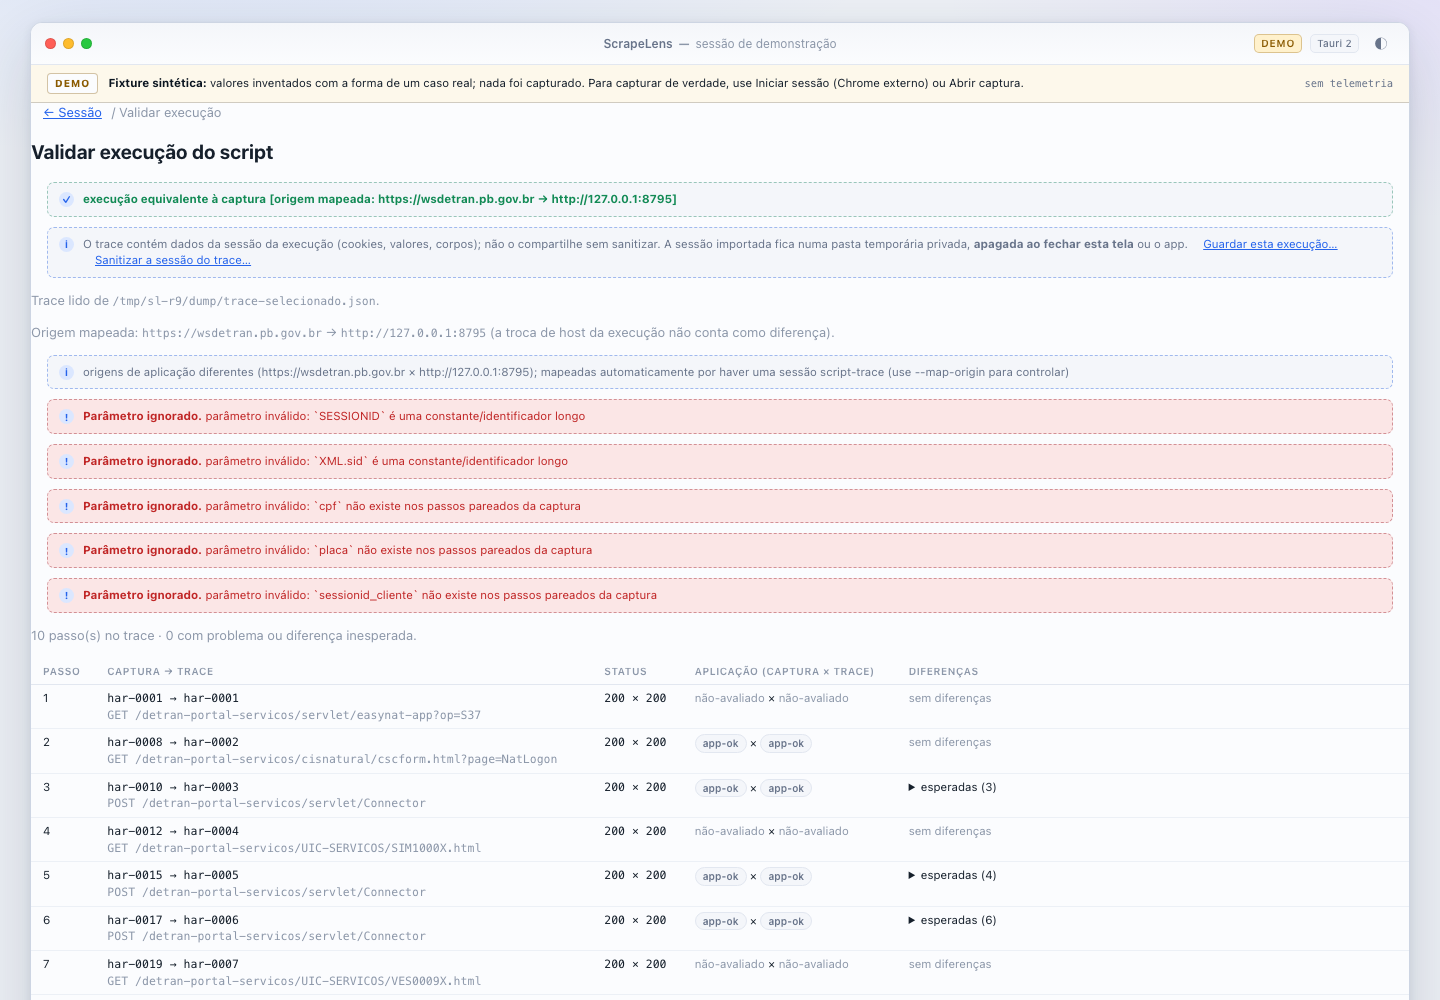
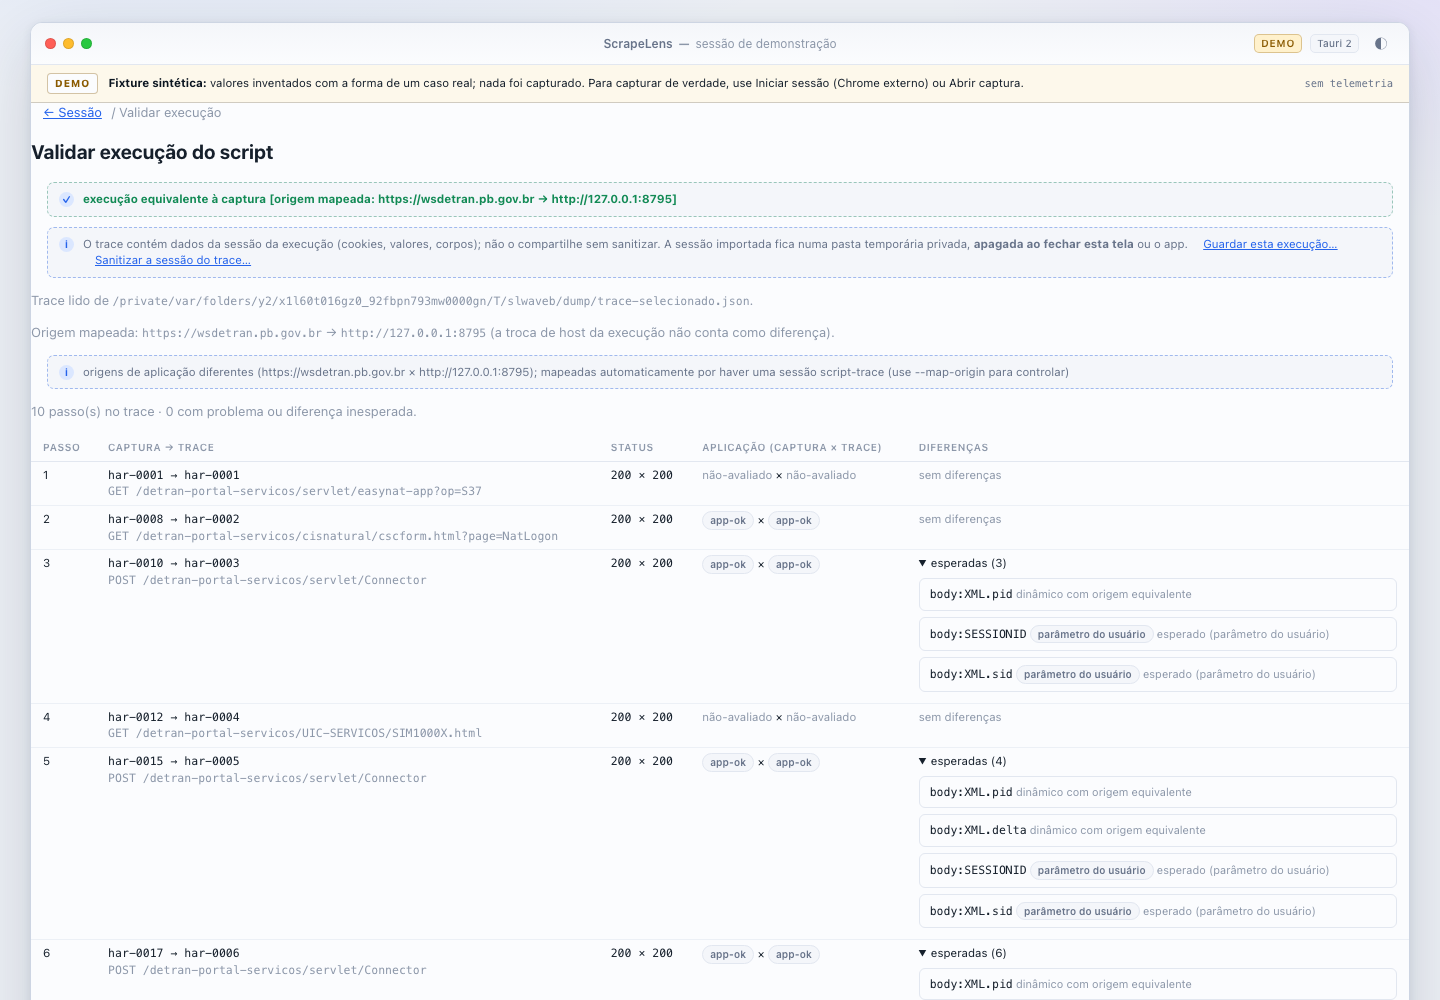
test(app): ok/403/incomplete traces on plan.version 2 and validation without spurious warnings
Regenerates the 3 traces against the local detran-sim with the core at HEAD
(plan.version 2), requires in the faithful trace the absence of parameter/plan
warnings (only the mapped origin warning), redoes screenshots 38–41, and records
bundle 860c2008 in EMPACOTAMENTO.md.

diff --git a/src-tauri/src/commands.rs b/src-tauri/src/commands.rs
@@ -1778,6 +1778,17 @@ mod tests {
         let ok = validate_execution_blocking(&root, &capture, &sim_trace("trace-sim-ok.json"), None).unwrap();
         assert!(ok.validation.summary.starts_with("execução equivalente à captura"), "{}", ok.validation.summary);
         assert!(ok.validation.summary.contains("[origem mapeada:"));
+        // trace fiel (plan.version 2): nenhum aviso de parâmetro ou de plano; só o de origem mapeada
+        assert!(
+            ok.validation.warnings.iter().all(|w| w.starts_with("origens de aplicação diferentes")),
+            "a trace fiel não pode gerar avisos além do de origem mapeada: {:?}",
+            ok.validation.warnings
+        );
+        assert!(
+            !ok.validation.warnings.iter().any(|w| w.contains("parâmetro") || w.contains("plano")),
+            "avisos espúrios de parâmetro/plano: {:?}",
+            ok.validation.warnings
+        );
         assert!(
             ok.validation.steps.iter().flat_map(|st| &st.expected).any(|n| n.reason.contains("parâmetro do usuário")),
             "placa/CPF informados viram esperado (parâmetro do usuário)"

diff --git a/src-tauri/EMPACOTAMENTO.md b/src-tauri/EMPACOTAMENTO.md
@@ -9,7 +9,7 @@ mesmas condições.
 | Item | Valor |
 |---|---|
 | Repositório | `/Users/cesar/Projects/scrapelens` |
-| Commit do app no momento do build | `3a3c676` (`fix(exportacao): evita repetir o estado do corpo na prévia`) |
+| Commit do app no momento do build | `31bcaa9` (HEAD de origem; `test(priming): evidência do plan.version no trace fiel, equivalente sem avisos`) |
 | Commits de exportação incluídos | `eaf5471` (shell Tauri), `0a6e696` (UI), `0446f18`/`12457cd` (formatação), `3a3c676` (ajuste da prévia) |
 | Contrato da rodada | `4c97bc9` (`docs/07-exportacao-ui.md`) |
 | Core | inalterado nesta rodada; entra como dependência de crate (`scrapelens-core = { path = "../core" }`) |
@@ -46,15 +46,15 @@ Ferramentas usadas: rustc 1.98.1, Node 26.8.1, macOS 26.5.2 (arm64).
 | Bundle | `src-tauri/target/release/bundle/macos/ScrapeLens.app` |
 | Executável | `ScrapeLens.app/Contents/MacOS/scrapelens` |
 | Arquitetura | `Mach-O 64-bit executable arm64`, thin (sem universal binary) |
-| Tamanho do bundle | 15.768 KiB (~15,4 MiB, `du -sk`) |
-| Tamanho do executável | 15.392.688 bytes |
[1 lines of base64/hex data omitted]
+| Tamanho do bundle | 16.720 KiB (~16,3 MiB, `du -sk`) |
+| Tamanho do executável | 16.365.856 bytes |
[1 lines of base64/hex data omitted]
 | Identificador | `app.scrapelens.desktop` |
 | Assinatura | ad-hoc (`flags=0x2(adhoc)`, `TeamIdentifier=not set`) |
 | `codesign --verify --deep --strict` | exit 0 (valid on disk, satisfaz o Designated Requirement) |
 | `spctl -a` | rejeitado — esperado: sem Developer ID e sem notarização |
 
-Rodada 9, 3ª vez (HEAD de origem a37cd60, 2026-10-29; temporária do trace com guardar/descartar, limite de 64 MiB, vereditos novos do validate com plan.hash do core; hash anterior `0b49ba0c…`). Antes: rodada 9, 2ª vez (HEAD de origem 2a5c533, 2026-10-29; validate com adaptador e classe "parâmetro do usuário"; hash anterior `48e1ab6d…`). Antes: rodada 9 (HEAD de origem 744df02, 2026-10-29; linha do tempo, "Validar execução…" com import-trace em pasta nova e validate; hash anterior `bda06a2d…`). Antes: build final que encerra a rodada 8 (HEAD de origem dc14ac3, 2026-10-29; estrito como padrão nas partes do adaptador; opção avançada "partes tolerantes" (`lenient_parts`) no script de priming, desligada por padrão; hash anterior `0eb5632a…`). Antes: build final da rodada 8, 2ª vez (HEAD de origem c07b514, 2026-10-29; inclui b4511fb e c07b514 da Captura; hash anterior `bee5f6d6…`). Antes: build final da rodada 8 (HEAD de origem 5d2c6e6, 2026-10-29; inclui 391db16, 5d2c6e6 da Captura, 3ba9486 do Core e o corte de partes da visão do adaptador; hash anterior `53009655…`). Antes: rebuild final da rodada 8 (HEAD de origem b0ce0f0, 2026-10-29; inclui limites da gramática da Captura, core c61d407 e o limite por campo da visão do adaptador; hash anterior `9aec2199…`). Antes: rebuild da rodada 8 (HEAD de origem aab8559, 2026-10-29; adaptador `natural-ajax` por dependência de path em origins/chain/compare/priming, visão estruturada e aba "Script de priming"; hash anterior `6e301e70…`). Antes: rebuild final (HEAD de origem 4b16b0e, 2026-10-29; inclui cf015b2 initiator do CDP e 6a85676 detectores do priming; hash anterior `1a097cd0…`). Antes: rebuild 7e (leitura de `assess-rules.json` só como arquivo regular sem symlink, até 256 KiB, erro de parse sem eco; hash anterior `56514c8b…`). Antes: rebuild 7d (avisos de `AssessRules::warnings()` devolvidos por `assess_session` e mostrados na lista e na aba Aplicação; hash anterior `0dba0476…`). Antes: rebuild 7c (filtros separados "Falhas da aplicação" = app-error e "Possíveis bloqueios?" = blocked?, combináveis; hash anterior `aa066f1a…`). Antes: rebuild 7b-2 (`counts` do assess com `VerdictKind::count_key()`, chaves kebab-case iguais ao `verdictKind`; hash anterior `83d67718…`). Antes: rebuild do ajuste 7b (verdict `not-assessed` neutro; hash anterior `0f6d04bf…`). Antes: rebuild da onda 7b (comando `assess_session`, coluna/filtro/aba "Aplicação", veredito na cadeia e no compare; hash anterior `4f7ca2aa…`). Antes: rebuild com frames auxiliares e iniciador (hash anterior `1697321d…`). Antes: rebuild da onda 6b (controle HTML, contexto estático, páginas de contexto, avisos de HAR sem cookies, compare por rodadas com opções, sanitização de negócio; hash anterior `f777988f…`). Antes: rebuild da dica de reordenação ligada a `SessionComparison.reordered` (hash anterior `21824159…`). Antes: rebuild do ajuste de layout do compare (chips quebram linha; dica de reordenação opcional); hash anterior `ac7213b2…`. Antes: rebuild com os rótulos do core (possível origem) e fixtures regeneradas; hash anterior `31ec27c3…`. Antes: rebuild das correções da revisão da rodada 5 (possível origem, confiança por passo, comparação paginada, caminhos canônicos, partsCounts; hash anterior `c1783a57…`). Antes: rebuild da onda 5b (aba Origem, cadeia de priming, comparação A × B, exportação com origens anotadas; hash anterior `2f08150d…`). Antes: rebuild do acabamento da rodada 4 (legenda de realce só quando há tracejado, nota discreta para `chrome-decoded`, aviso para `charset:*`/`lossy-postData`); hash anterior `0e2754f4…`. Antes: rebuild com busca preguiçosa do core (LazySession + search_lazy), realce sólido/tracejado e texto da fixture sintética; hash anterior `f9c0acec…`. Antes: rebuild das correções da revisão 4b (rótulos de origem, realce pelo intervalo do core, cache do bundle de busca, recusa de symlink em anexos, `transformed`; hash anterior `56ee754b…`). Antes: rebuild da onda 4b (busca no payload e painel de corpos: commands `search_session` e `read_body`, UI; 28+2 ignorados em src-tauri, 16/16 em tests/exportacao, `npm run test:adapter` ok; evidência em `evidence/busca-corpos/`). Hash anterior `9c04b98b…` substituído. Histórico: rebuild de 0d4dbab (`fix(app)`: adapter tolera campos omitidos que o core aceita via serde default; teste `npm run test:adapter` com a fixture mínima; 15+1 ignorado Tauri, 16/16 regressões tests/exportacao). Hash anterior `5934556c…` (16015a1) substituído. Antes: rebuild com validação de todos os ancestrais do destino (F1/F2): o hash acima é deste build. O SHA-256 é do executável **após** o re-sign ad-hoc. Um `tauri build` limpo
+Rodada 9, onda B (HEAD de origem 31bcaa9, 2026-10-29; plan.version 2 no trace, traces ok/403/incompleta regenerados contra o detran-sim e validação sem avisos espúrios na trace fiel; inclui o cleanup_on_start de 4a81cb0 e o plan.parameters de d83d620; hash anterior `bdce5796…`). Antes: rodada 9, 3ª vez (HEAD de origem a37cd60, 2026-10-29; temporária do trace com guardar/descartar, limite de 64 MiB, vereditos novos do validate com plan.hash do core; hash anterior `0b49ba0c…`). Antes: rodada 9, 2ª vez (HEAD de origem 2a5c533, 2026-10-29; validate com adaptador e classe "parâmetro do usuário"; hash anterior `48e1ab6d…`). Antes: rodada 9 (HEAD de origem 744df02, 2026-10-29; linha do tempo, "Validar execução…" com import-trace em pasta nova e validate; hash anterior `bda06a2d…`). Antes: build final que encerra a rodada 8 (HEAD de origem dc14ac3, 2026-10-29; estrito como padrão nas partes do adaptador; opção avançada "partes tolerantes" (`lenient_parts`) no script de priming, desligada por padrão; hash anterior `0eb5632a…`). Antes: build final da rodada 8, 2ª vez (HEAD de origem c07b514, 2026-10-29; inclui b4511fb e c07b514 da Captura; hash anterior `bee5f6d6…`). Antes: build final da rodada 8 (HEAD de origem 5d2c6e6, 2026-10-29; inclui 391db16, 5d2c6e6 da Captura, 3ba9486 do Core e o corte de partes da visão do adaptador; hash anterior `53009655…`). Antes: rebuild final da rodada 8 (HEAD de origem b0ce0f0, 2026-10-29; inclui limites da gramática da Captura, core c61d407 e o limite por campo da visão do adaptador; hash anterior `9aec2199…`). Antes: rebuild da rodada 8 (HEAD de origem aab8559, 2026-10-29; adaptador `natural-ajax` por dependência de path em origins/chain/compare/priming, visão estruturada e aba "Script de priming"; hash anterior `6e301e70…`). Antes: rebuild final (HEAD de origem 4b16b0e, 2026-10-29; inclui cf015b2 initiator do CDP e 6a85676 detectores do priming; hash anterior `1a097cd0…`). Antes: rebuild 7e (leitura de `assess-rules.json` só como arquivo regular sem symlink, até 256 KiB, erro de parse sem eco; hash anterior `56514c8b…`). Antes: rebuild 7d (avisos de `AssessRules::warnings()` devolvidos por `assess_session` e mostrados na lista e na aba Aplicação; hash anterior `0dba0476…`). Antes: rebuild 7c (filtros separados "Falhas da aplicação" = app-error e "Possíveis bloqueios?" = blocked?, combináveis; hash anterior `aa066f1a…`). Antes: rebuild 7b-2 (`counts` do assess com `VerdictKind::count_key()`, chaves kebab-case iguais ao `verdictKind`; hash anterior `83d67718…`). Antes: rebuild do ajuste 7b (verdict `not-assessed` neutro; hash anterior `0f6d04bf…`). Antes: rebuild da onda 7b (comando `assess_session`, coluna/filtro/aba "Aplicação", veredito na cadeia e no compare; hash anterior `4f7ca2aa…`). Antes: rebuild com frames auxiliares e iniciador (hash anterior `1697321d…`). Antes: rebuild da onda 6b (controle HTML, contexto estático, páginas de contexto, avisos de HAR sem cookies, compare por rodadas com opções, sanitização de negócio; hash anterior `f777988f…`). Antes: rebuild da dica de reordenação ligada a `SessionComparison.reordered` (hash anterior `21824159…`). Antes: rebuild do ajuste de layout do compare (chips quebram linha; dica de reordenação opcional); hash anterior `ac7213b2…`. Antes: rebuild com os rótulos do core (possível origem) e fixtures regeneradas; hash anterior `31ec27c3…`. Antes: rebuild das correções da revisão da rodada 5 (possível origem, confiança por passo, comparação paginada, caminhos canônicos, partsCounts; hash anterior `c1783a57…`). Antes: rebuild da onda 5b (aba Origem, cadeia de priming, comparação A × B, exportação com origens anotadas; hash anterior `2f08150d…`). Antes: rebuild do acabamento da rodada 4 (legenda de realce só quando há tracejado, nota discreta para `chrome-decoded`, aviso para `charset:*`/`lossy-postData`); hash anterior `0e2754f4…`. Antes: rebuild com busca preguiçosa do core (LazySession + search_lazy), realce sólido/tracejado e texto da fixture sintética; hash anterior `f9c0acec…`. Antes: rebuild das correções da revisão 4b (rótulos de origem, realce pelo intervalo do core, cache do bundle de busca, recusa de symlink em anexos, `transformed`; hash anterior `56ee754b…`). Antes: rebuild da onda 4b (busca no payload e painel de corpos: commands `search_session` e `read_body`, UI; 28+2 ignorados em src-tauri, 16/16 em tests/exportacao, `npm run test:adapter` ok; evidência em `evidence/busca-corpos/`). Hash anterior `9c04b98b…` substituído. Histórico: rebuild de 0d4dbab (`fix(app)`: adapter tolera campos omitidos que o core aceita via serde default; teste `npm run test:adapter` com a fixture mínima; 15+1 ignorado Tauri, 16/16 regressões tests/exportacao). Hash anterior `5934556c…` (16015a1) substituído. Antes: rebuild com validação de todos os ancestrais do destino (F1/F2): o hash acima é deste build. O SHA-256 é do executável **após** o re-sign ad-hoc. Um `tauri build` limpo
 produz um binário byte-diferente (o linker assina antes do bundle), por isso o
 hash identifica este artefato, não a saída de qualquer build. O build anterior
 desta mesma rodada, sem o ajuste `3a3c676`, tinha
